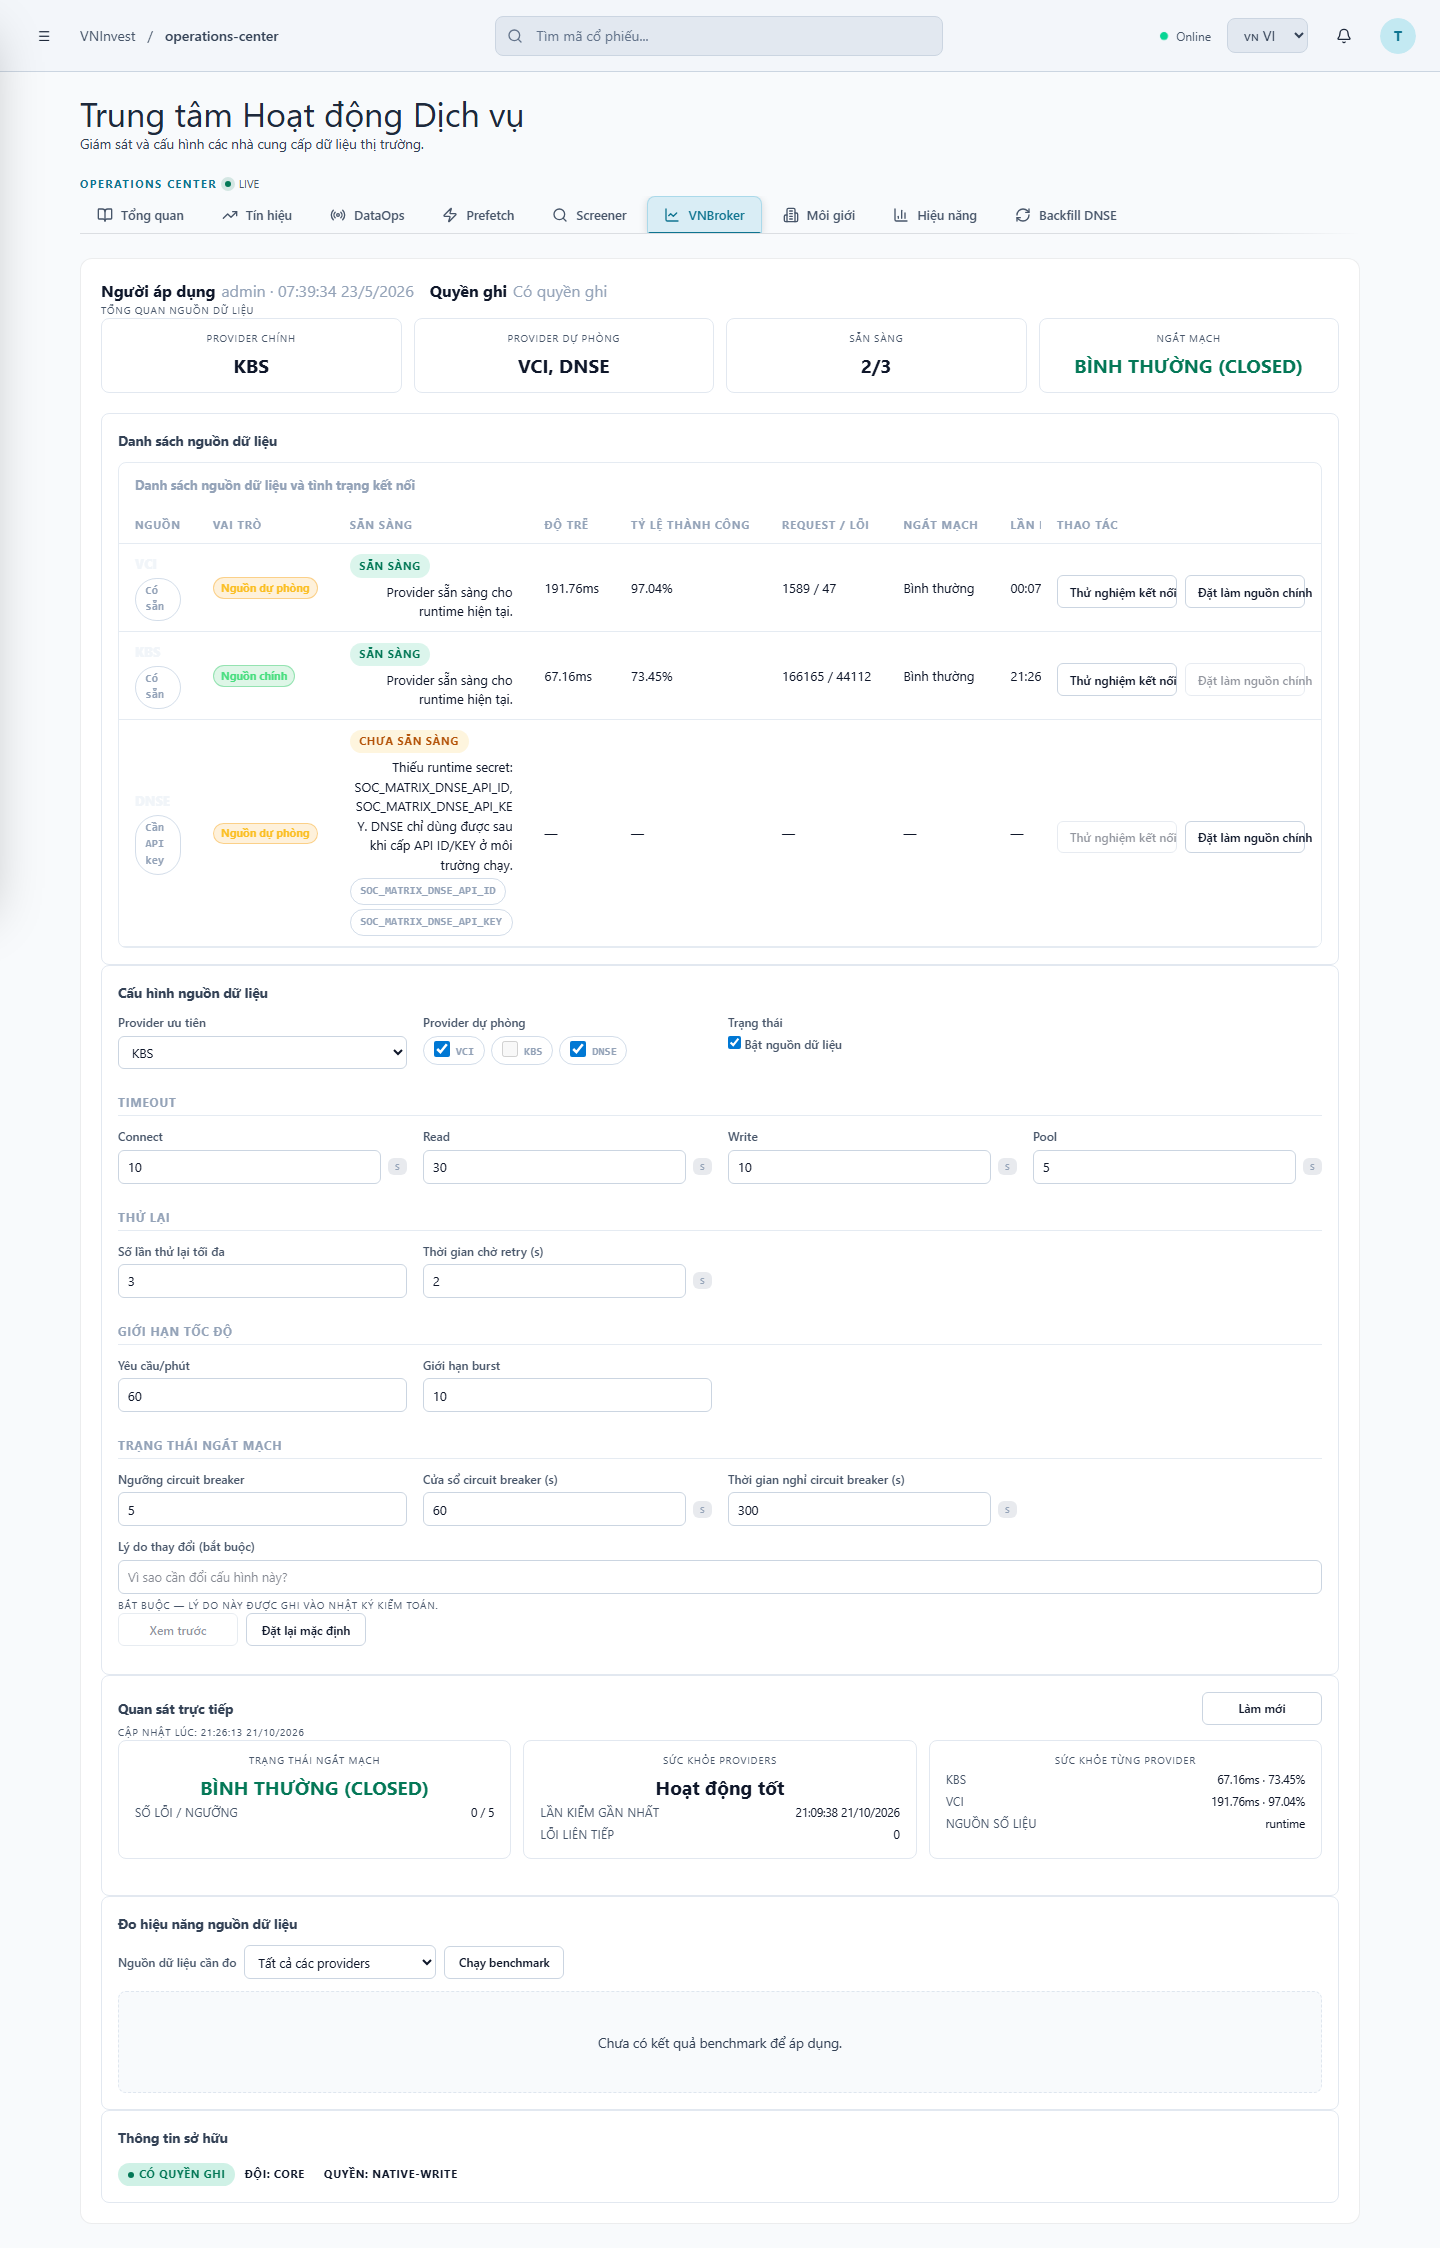
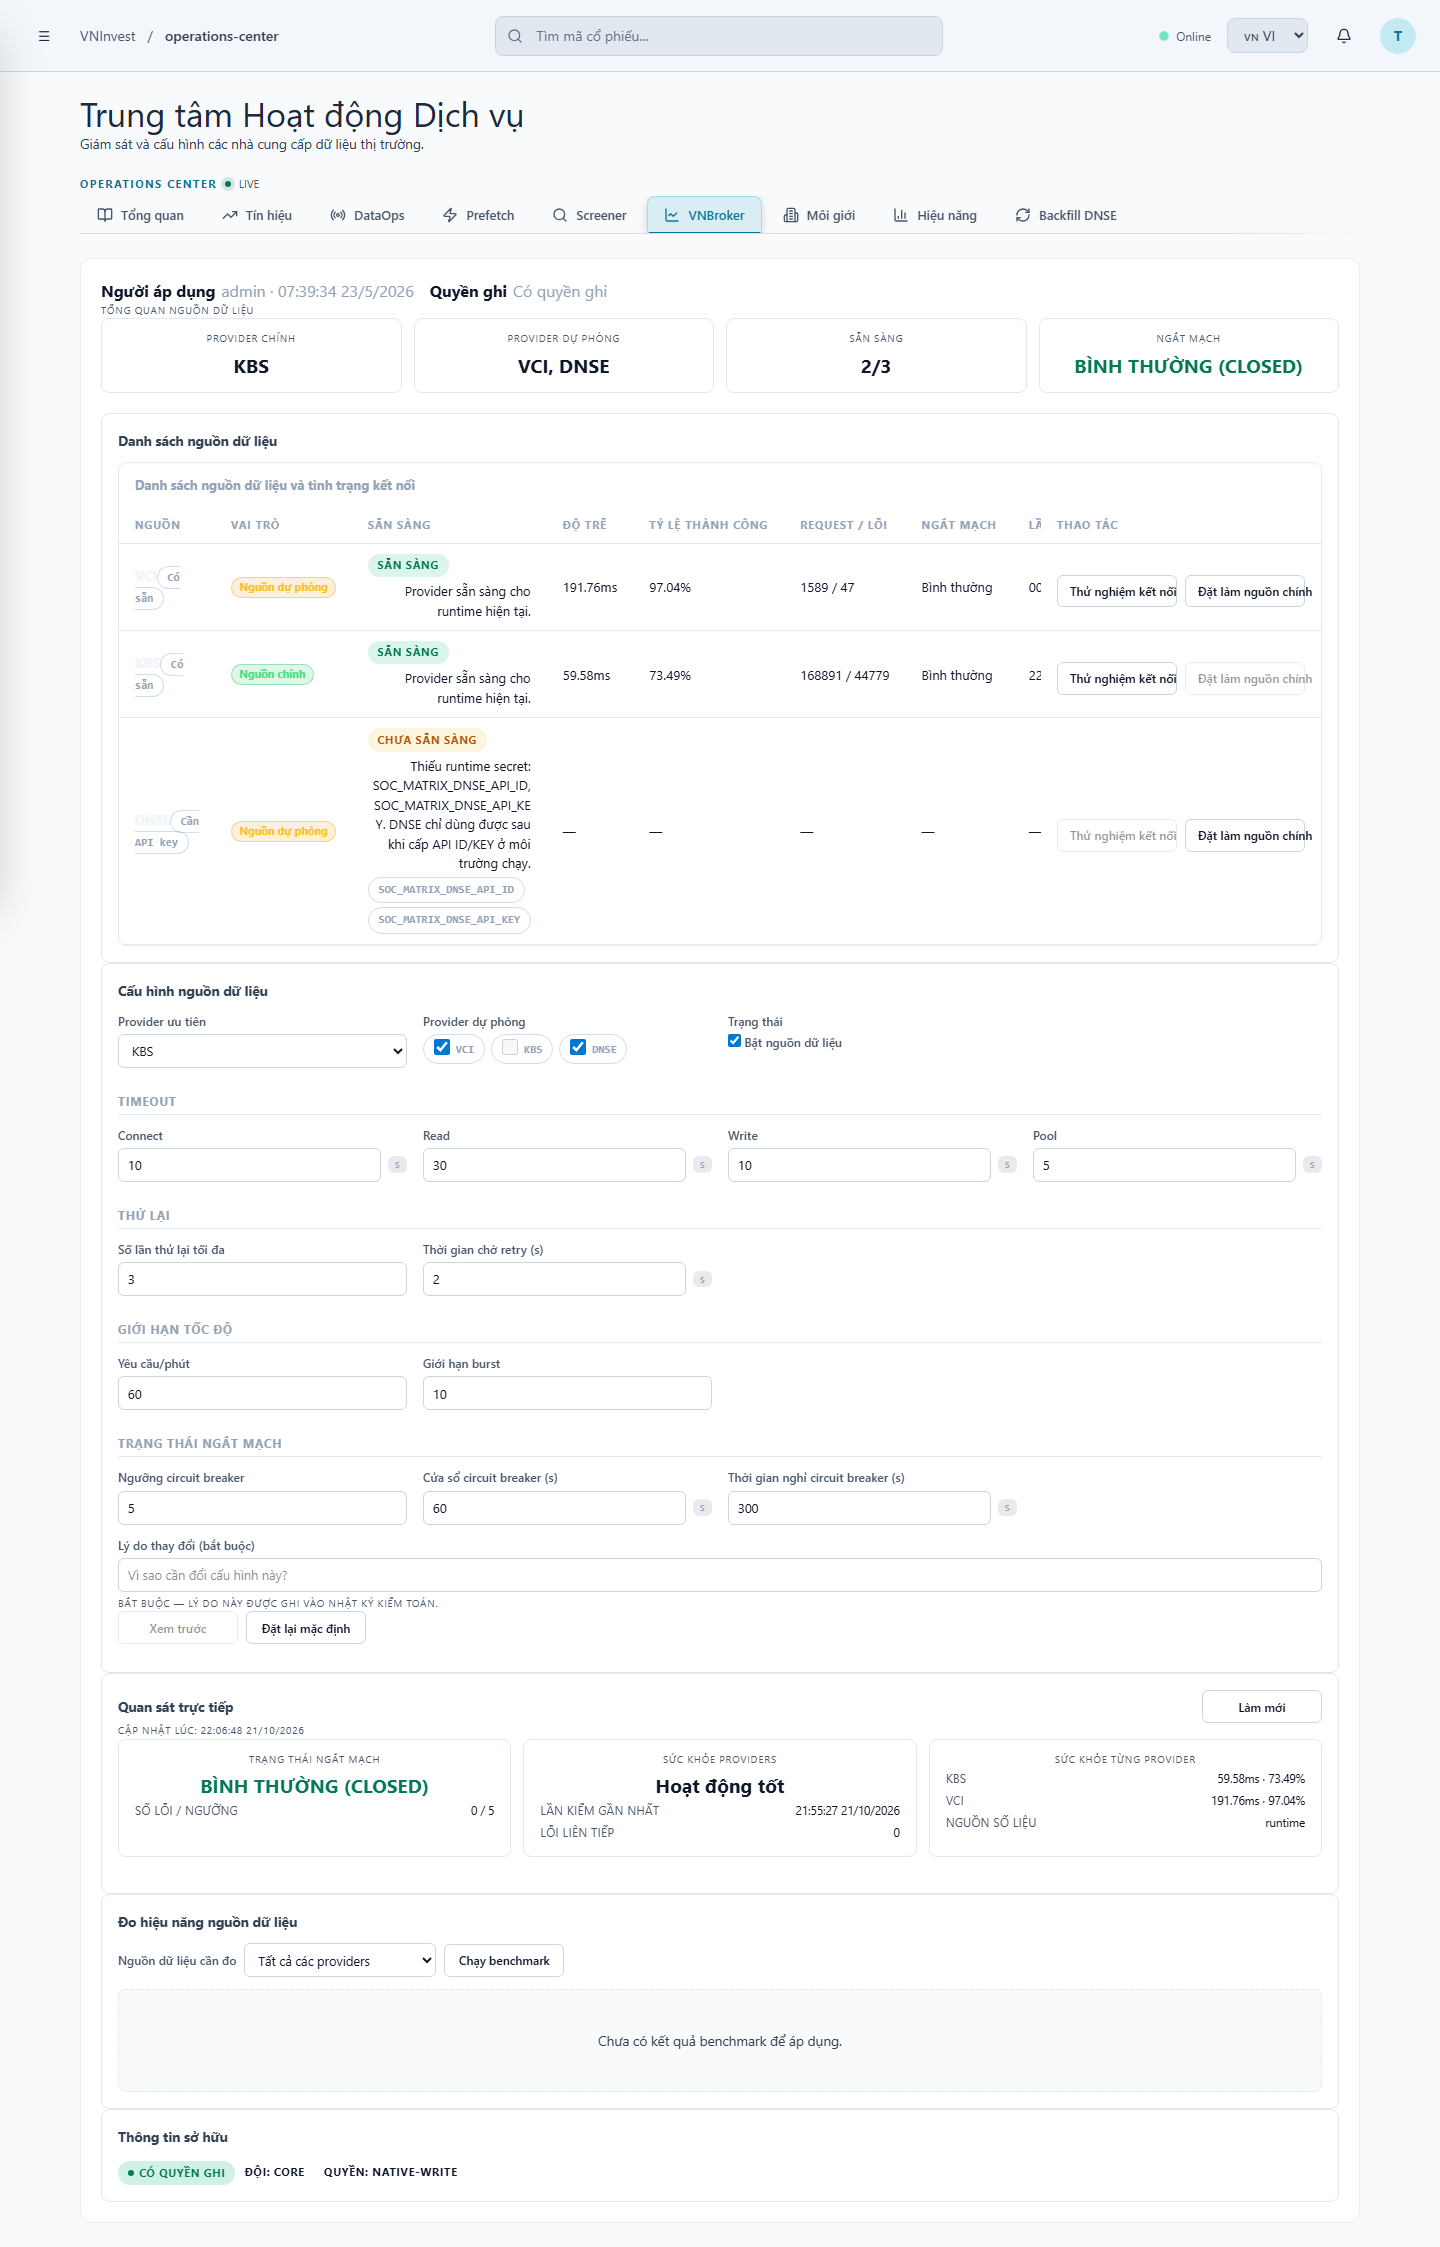
fix(soc): bang nguon du lieu 7 cot VUA container — bo cot dinh (sticky) va rut cot
ANH (Owner, 2026-10-21): "cot thao tac dang loi, mau sac cung khong hop voi dark theme cua ca trang".

Goc rac: co 2 loi rieng, ca 2 deu do toi lam sticky:
1. Nen cua o dinh (sticky) la **1 mau DUNG** ⇒ o light mode no lech card (card translucent
   `rgba(#0f172a/.3)`), o dark mode no la mot khoi TOI hon card ⇒ "khong hop voi dark theme".
   => DAN MOT O NAO BANG MAU LA SAI CACH. Cach dung: **thu bang cho VUA container**.
2. Bang 9 cot rong 1377px > container 1202px ⇒ phai cuon ngang ⇒ cot cuoi bi day ra
   ⇒ phai "sticky" ⇒ va cot "NGUON" bi BOP (pill "Co san" thanh hinh tron).

Sua:
  - Bang **7 cot**: gop "Do tre" + "Ty le thanh cong" => "Do tre · Thanh cong"; dua "Lan kiem gan
    nhat" xuong dong phu trong o "San sang" ⇒ tong rong ~1066px < 1202px ⇒ VUA container.
  - BO `position: sticky` + `width:max-content` ⇒ dung `width:100%` cua template ⇒ khong con
    o nao bi bop, khong con o nao lech mau, khong phai cuon ngang de thao tac.
  - them i18n `col_perf`.

GATE: tsc 0 · build 0 · pre-push-gate 28 PASS.

diff --git a/packages/web/src/components/soc/SocVnbrokerPanel.tsx b/packages/web/src/components/soc/SocVnbrokerPanel.tsx
@@ -721,11 +721,9 @@ export function SocVnbrokerPanel() {
               { key: "source", label: t("soc.vnbroker.col_source"), rowHeader: true },
               { key: "role", label: t("soc.vnbroker.col_role") },
               { key: "ready", label: t("soc.vnbroker.col_ready") },
-              { key: "latency", label: t("soc.vnbroker.latency") },
-              { key: "success", label: t("soc.vnbroker.success_rate") },
+              { key: "perf", label: t("soc.vnbroker.col_perf") },
               { key: "requests", label: t("soc.vnbroker.col_requests") },
               { key: "circuit", label: t("soc.vnbroker.col_circuit") },
-              { key: "lastCheck", label: t("soc.vnbroker.last_check") },
               { key: "actions", label: t("soc.vnbroker.col_actions") },
             ]}
             rows={catalog.map((entry) => {
@@ -790,20 +788,21 @@ export function SocVnbrokerPanel() {
                           ))}
                         </span>
                       ) : null}
+                      <span className={styles.vnbStatLabel}>
+                        {t("soc.vnbroker.last_check")}:{" "}
+                        {row?.last_success_at ? formatTime(row.last_success_at) : "—"}
+                      </span>
                     </span>
                   ),
-                  latency: (
-                    <span className={`${styles.vnbStatValue} ${styles.vnbCellValue}`}>
+                  perf: (
+                    <span className={styles.vnbStatValue}>
                       {row?.latency_ms == null ? "—" : `${row.latency_ms}ms`}
-                    </span>
-                  ),
-                  success: (
-                    <span className={`${styles.vnbStatValue} ${styles.vnbCellValue}`}>
+                      {" · "}
                       {row?.success_rate == null ? "—" : `${row.success_rate}%`}
                     </span>
                   ),
                   requests: (
-                    <span className={`${styles.vnbStatValue} ${styles.vnbCellValue}`}>
+                    <span className={styles.vnbStatValue}>
                       {row ? `${row.total_requests} / ${row.failed_requests}` : "—"}
                     </span>
                   ),
@@ -817,13 +816,8 @@ export function SocVnbrokerPanel() {
                         : "—"}
                     </span>
                   ),
-                  lastCheck: (
-                    <span className={`${styles.vnbStatValue} ${styles.vnbCellValue}`}>
-                      {row?.last_success_at ? formatTime(row.last_success_at) : "—"}
-                    </span>
-                  ),
                   actions: (
-                    <span className={`${styles.vnbTileActions} ${styles.vnbActionsCell}`}>
+                    <span className={styles.vnbTileActions}>
                       <button
                         type="button"
                         className={styles.vnbActionBtn}

diff --git a/packages/web/src/components/soc/soc.components.css b/packages/web/src/components/soc/soc.components.css
@@ -4547,20 +4547,9 @@
 /* Bang nguon du lieu 9 cot: rong toi thieu de khong cat cot thao tac;
    wrapper `.cm-table-wrap` da co overflow-x:auto ⇒ cuon ngang khi can. */
 .vnbSourceTable {
-  width: max-content;
-  min-width: 100%;
+  /* Bang 7 cot da VUA container (1202px) => dung width chuan cua template
+     (`width:100%`) ⇒ KHONG cuon ngang, KHONG can cot dinh (sticky) ⇒ khong con
+     o nao bi bop hay nen khac mau. */
+  width: 100%;
 }
 
-/* COT THAO TAC DINH (sticky): bang 9 cot rong hon container (1316px > 1202px) ⇒
-   wrapper cuon ngang; neu khong dinh, 2 nut hanh dong nam ngoai tam nhin ⇒
-   nguoi dung khong thay duoc hanh dong ma khong do. */
-.vnbSourceTable th:last-child,
-.vnbSourceTable td:last-child {
-  position: sticky;
-  right: 0;
-  z-index: 1;
-  /* nen theo TOKEN: --color-bg-panel = #0f172a (dark) | #ffffff (light, T1 override).
-     Hardcode #ffffff se tao dai trang che bang o dark theme. */
-  background: var(--color-bg-panel, #0f172a);
-  box-shadow: -1px 0 0 var(--border-default, rgba(148, 163, 184, 0.2));
-}

diff --git a/packages/web/src/i18n/vi.js b/packages/web/src/i18n/vi.js
@@ -1158,6 +1158,7 @@ aiUsageAnalytics: 'Usage AI',
       circuit_state_open: 'Đã ngắt',
       circuit_state_half_open: 'Đang thử lại',
       circuit_state_unknown: 'Chưa biết',
+      col_perf: 'Độ trễ · Thành công',
     },
     broker: {
       purpose_backfill: 'Bù dữ liệu',

diff --git a/packages/web/src/i18n/en.js b/packages/web/src/i18n/en.js
@@ -1158,6 +1158,7 @@ aiUsageAnalytics: 'AI Usage',
       circuit_state_open: 'Open',
       circuit_state_half_open: 'Half-open',
       circuit_state_unknown: 'Unknown',
+      col_perf: 'Latency · Success',
     },
     broker: {
       purpose_backfill: 'Backfill',
